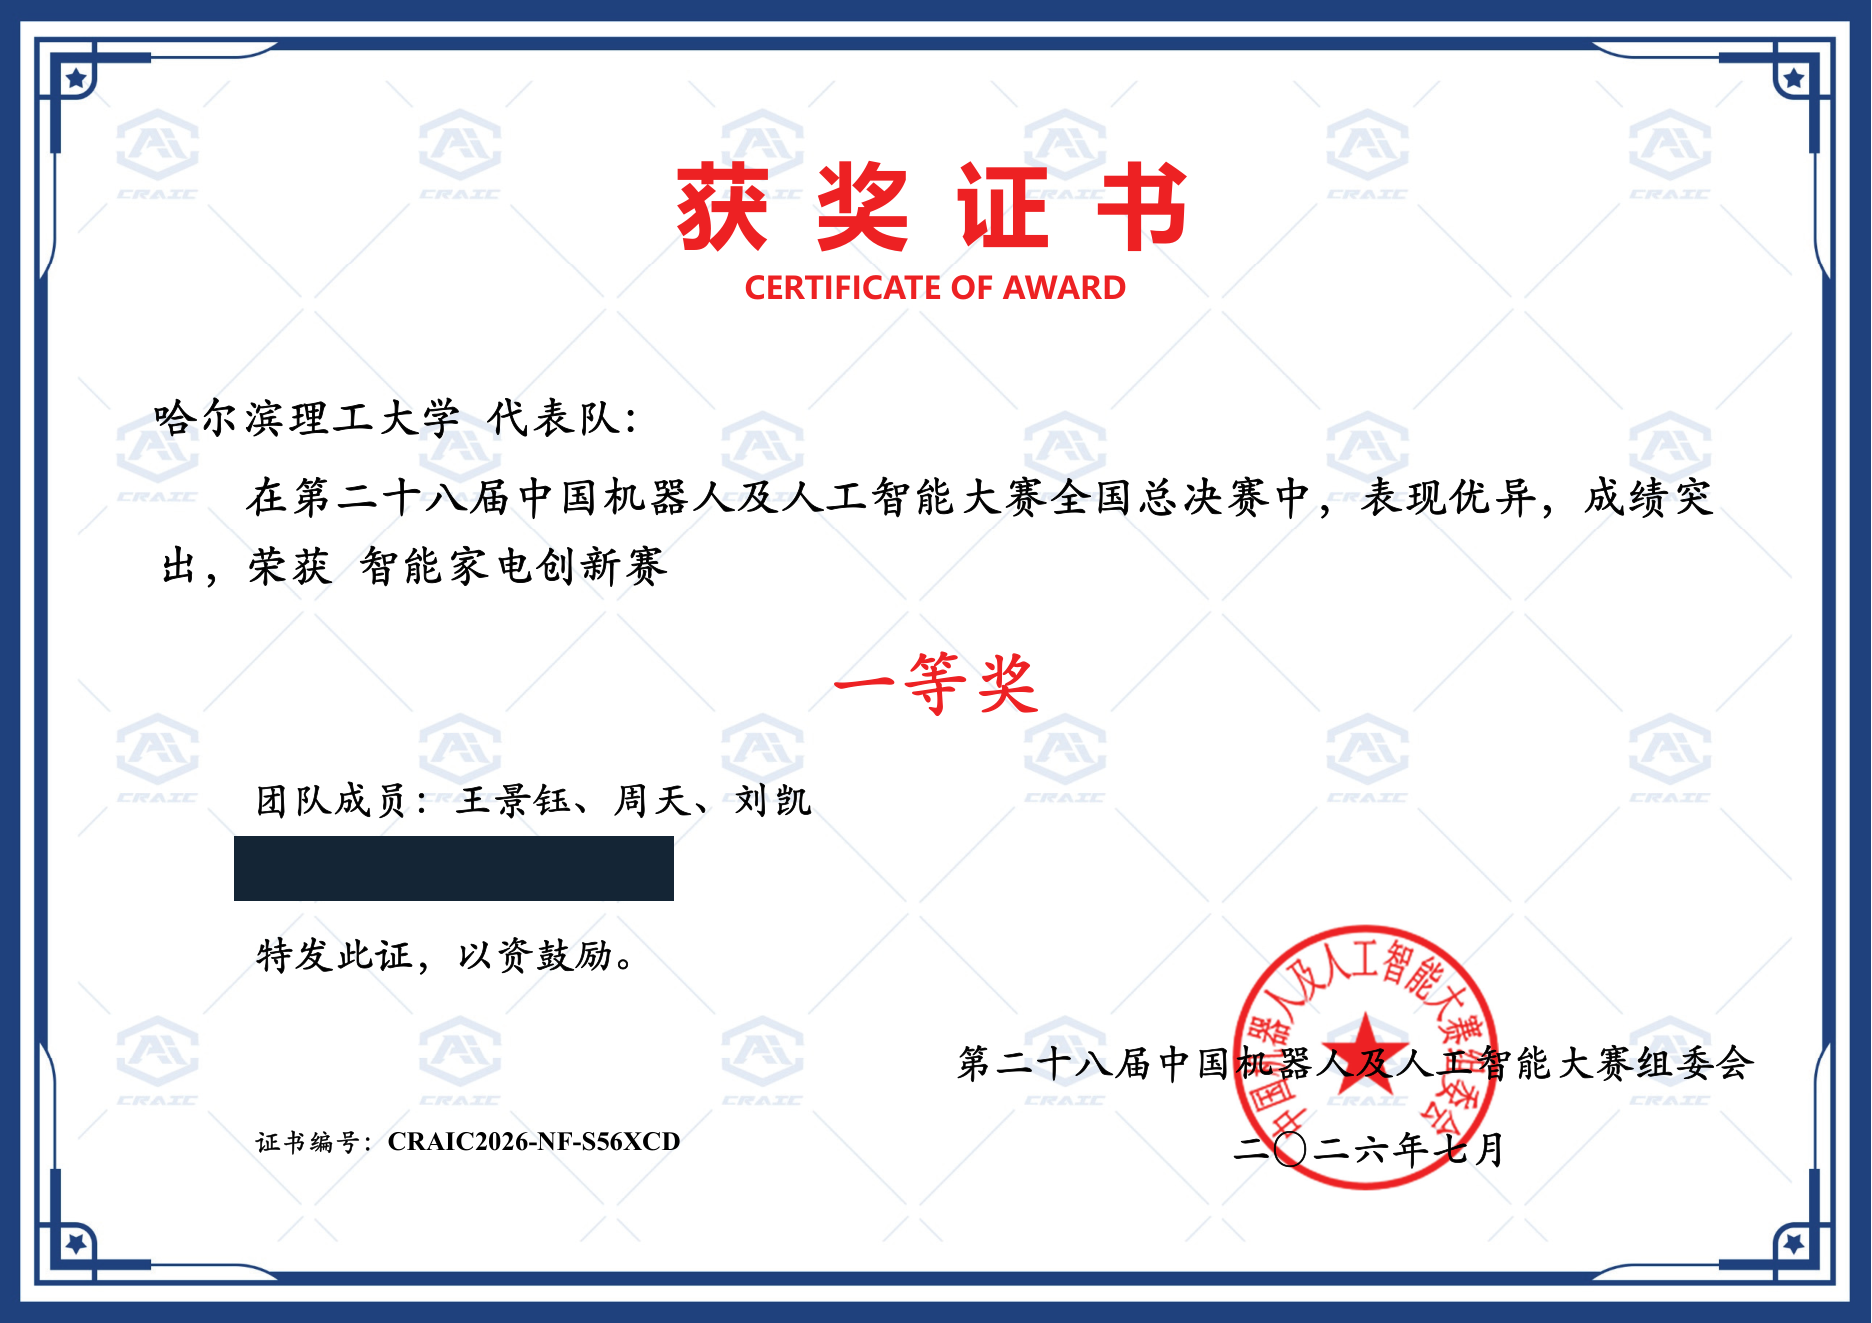
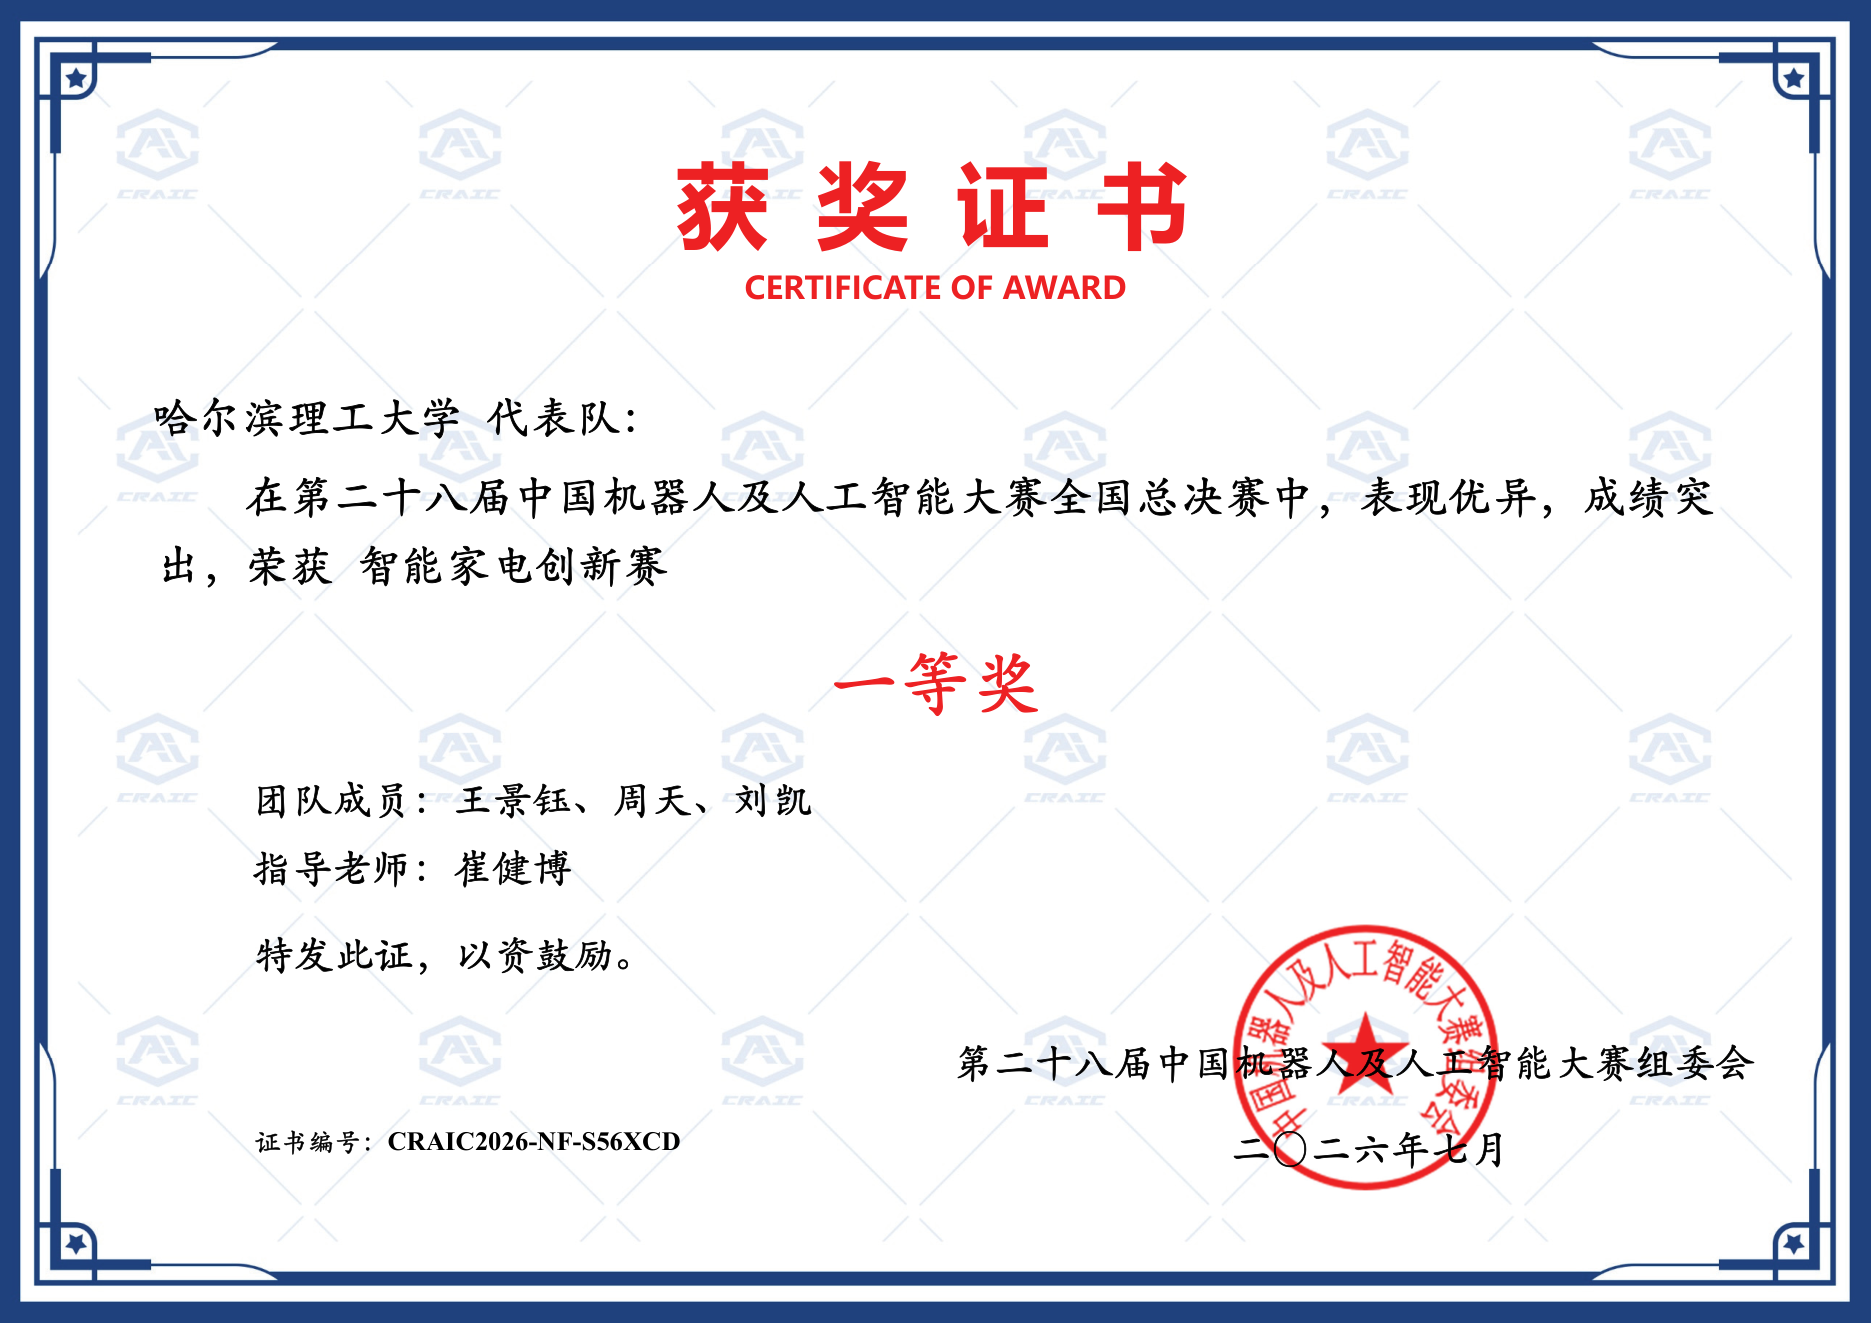
Restore advisor rows while retaining certificate identity masks

Changed region(s): [[0.1239, 0.6198, 0.3718, 0.6818]]

diff --git a/docs/review/2026-10-14-certificates.md b/docs/review/2026-10-14-certificates.md
@@ -1,5 +1,7 @@
 # 荣誉材料公开副本与手机大图
 
+后续更新：用户确认改为上方证书墙、下方文字荣誉档案，并要求证书中的指导教师正常展示。当前副本已从原件重新导出，只继续遮盖身份证号、验证二维码与无关名单。以 `certificates-manifest.json` v2 和 [证书墙设计记录](certificate-wall-design.md) 为准；下文保留首次发布时的验收记录。
+
 ## 范围
 
 用户明确要求在荣誉页加入证书图片、遮盖身份证号与指导教师信息，随后确认采用本地脚本实色遮盖，不使用 AI 重绘。本轮为原有 16 条记录添加对应图片：14 张证书、2 张成绩截图。赛事、奖项、级别与成员文案保持原样；未恢复此前排除的记录。
